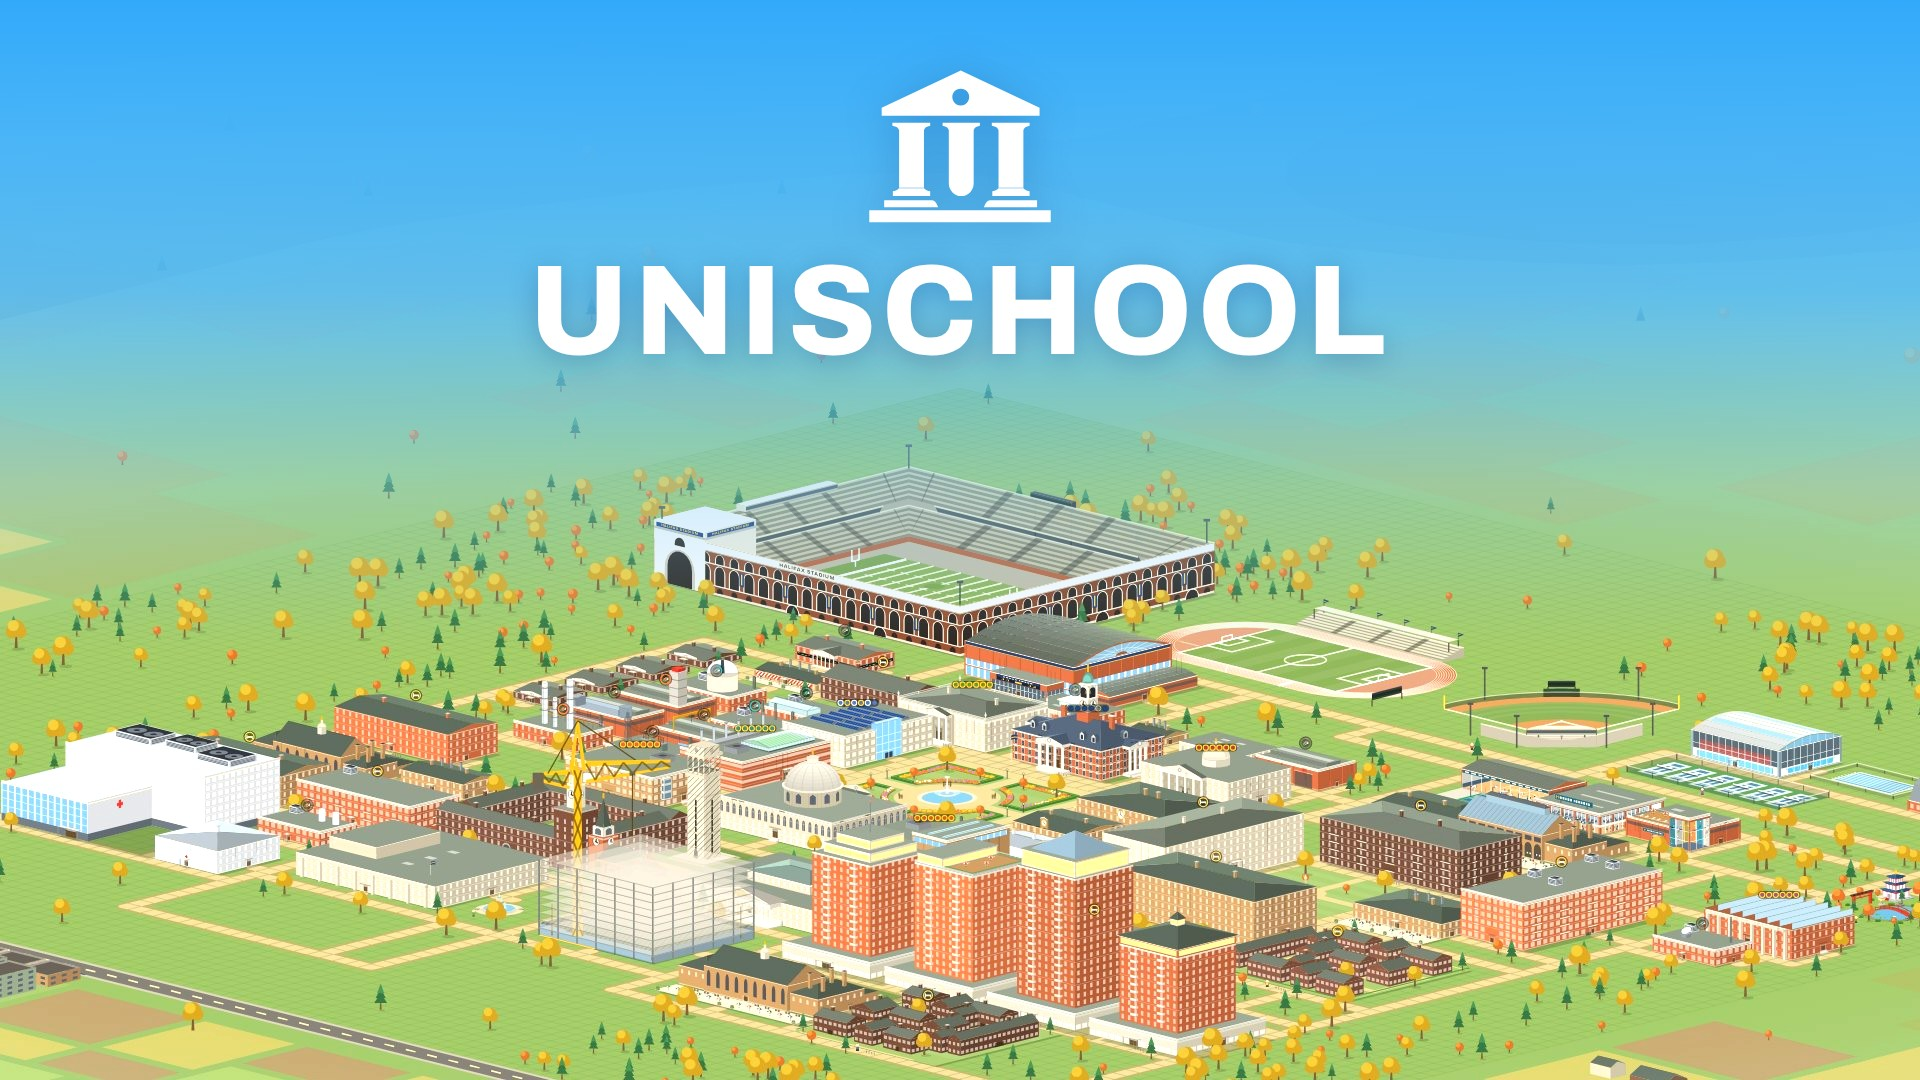
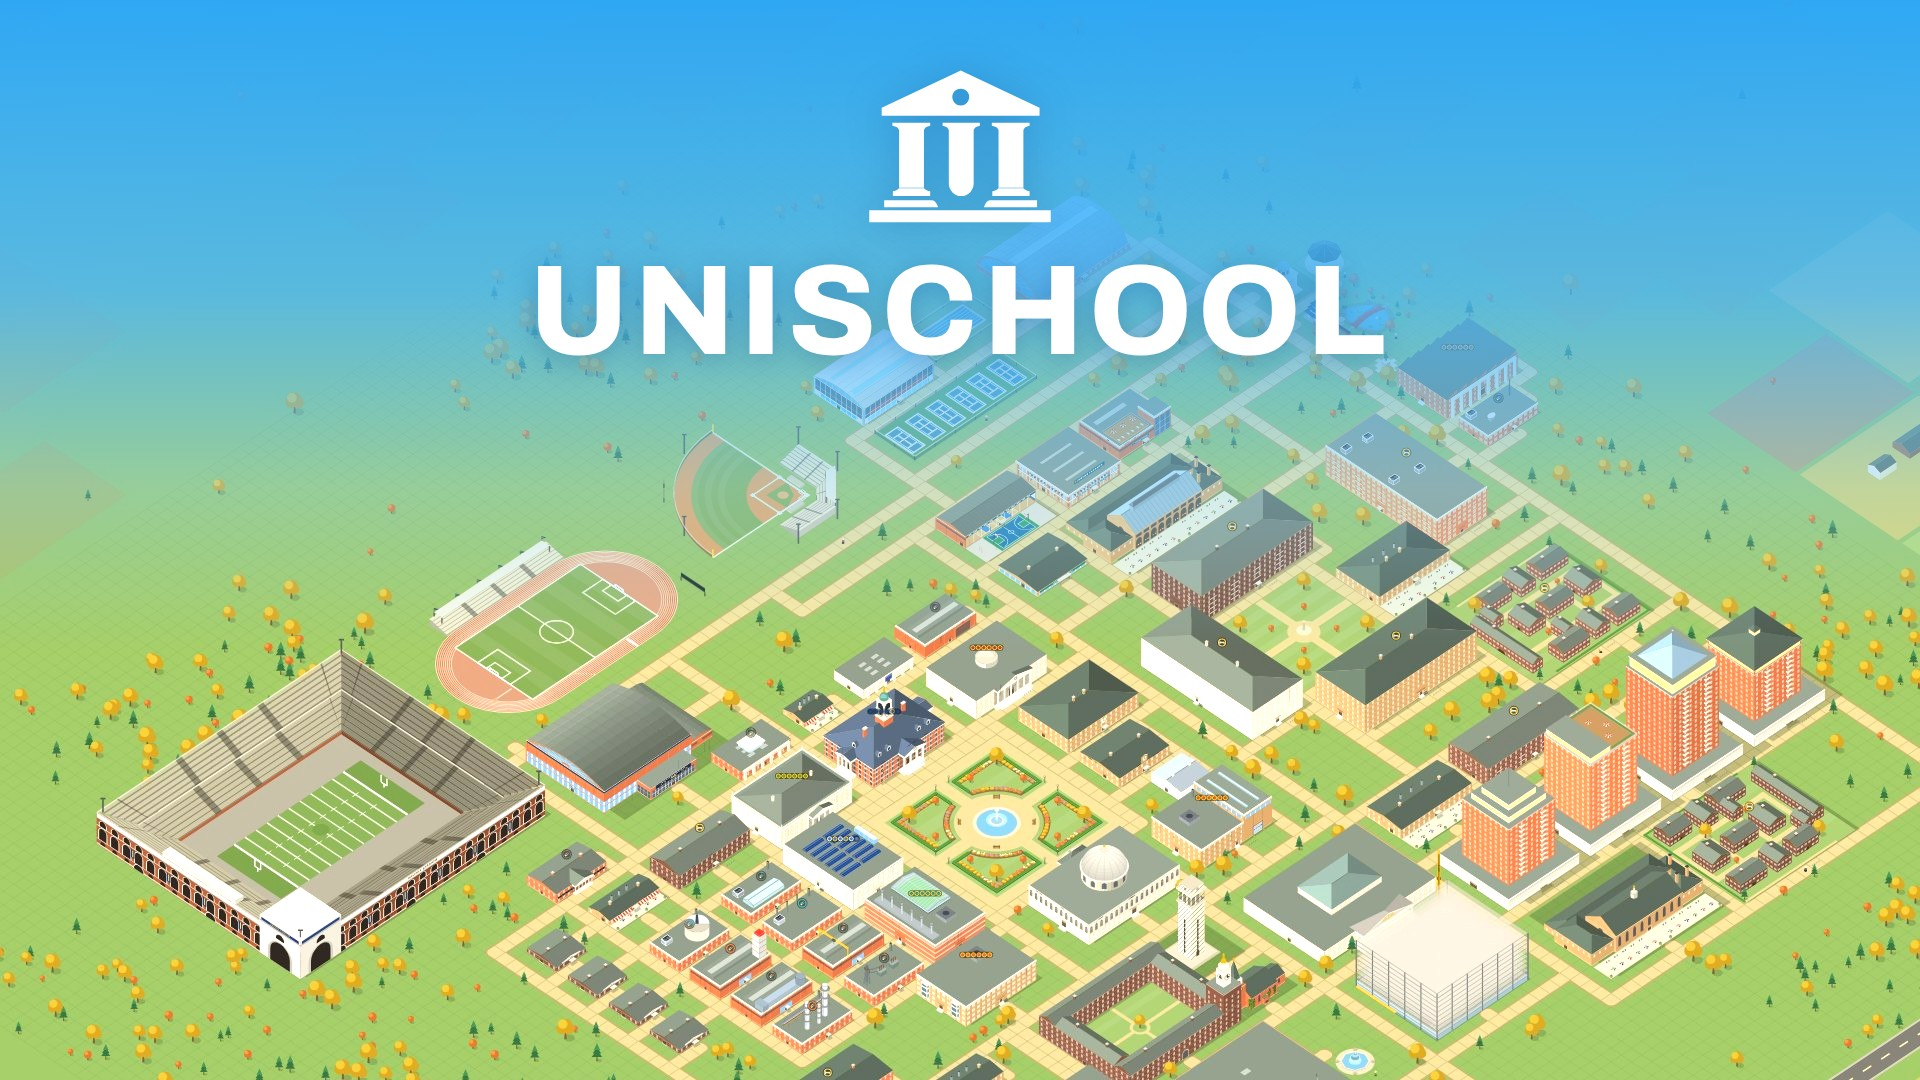
The itch.io covers from a steeper, turned view
Flatter, the campus read as a strip and the stadium filled the middle under
the name. Turned three quarters and a step steeper than the opening view,
the quad sits at the centre, the stadium in a lower corner with its tower
toward the camera, and the name on clear sky.

Claude-Session: https://claude.ai/code/session_01B1CvZA3qx2i7SRBeJJJh3w

diff --git a/docs/store/itch-page.md b/docs/store/itch-page.md
@@ -279,12 +279,16 @@ year 3, so the chapters shot is taken at week 38 of year 2.
 ## The cover image
 
 [`itch/cover.jpg`](itch/cover.jpg): the fall campus of screenshot 1,
-without the game's controls, under the title screen's mark and name
+without the game's controls, turned three quarters and a step steeper
+than the opening view (4 November 2026: flatter, the campus read as a
+strip and the stadium filled the middle under the name; turned, the quad
+is at the centre and the stadium in a lower corner, its tower toward
+you), under the title screen's mark and name
 (Archivo 800 in wide white capitals, the soft blue shadow) on a band of
 the title art's blue sky, brightened and saturated (`--vivid`, the owner's
 edit of 11 October). It is 1260 × 1000, itch.io's 630 × 500 at twice
 the density, so it stays sharp on a high-density screen; itch.io scales it.
-It stands in until the commissioned capsule art exists (the backlog's
+It stands in until the commissioned capsule art (Millie Steer's) exists (the backlog's
 owner tasks); upload it under **Cover image**.
 
 [`itch/cover-wide.jpg`](itch/cover-wide.jpg) is the same at 1920 × 1080,
@@ -300,9 +304,9 @@ From `unischool/`, with the production build served
 npm run scenario -- --player Completionist --year 32 --week 14 --clear-modal --name Halifax --colors navy-gold campus.json
 npm run layout -- campus.json campus-laid.json
 npm run shot -- campus-laid.json ../docs/store/itch/1-campus.jpg --size=1920,1080 --tilt=-2 --zoom=-1
-npm run shot -- campus-laid.json cover-bg.jpg --bare --size=1260,1000 --tilt=-2 --zoom=-1 --pan=0,220
+npm run shot -- campus-laid.json cover-bg.jpg --bare --size=1260,1000 --turn=3 --tilt=1 --zoom=-2 --pan=0,300
 node tools/itchCover.mjs cover-bg.jpg ../docs/store/itch/cover.jpg --vivid
-npm run shot -- campus-laid.json cover-wide-bg.jpg --bare --size=1920,1080 --tilt=-2 --zoom=0 --pan=0,300
+npm run shot -- campus-laid.json cover-wide-bg.jpg --bare --size=1920,1080 --turn=3 --tilt=1 --zoom=-1 --pan=0,330
 node tools/itchCover.mjs cover-wide-bg.jpg ../docs/store/itch/cover-wide.jpg --size=960,540 --vivid
 npm run scenario -- summer summer.json
 npm run shot -- summer.json ../docs/store/itch/2-admissions.jpg --size=1920,1080 --click="Open the summer" --click=Continue \
